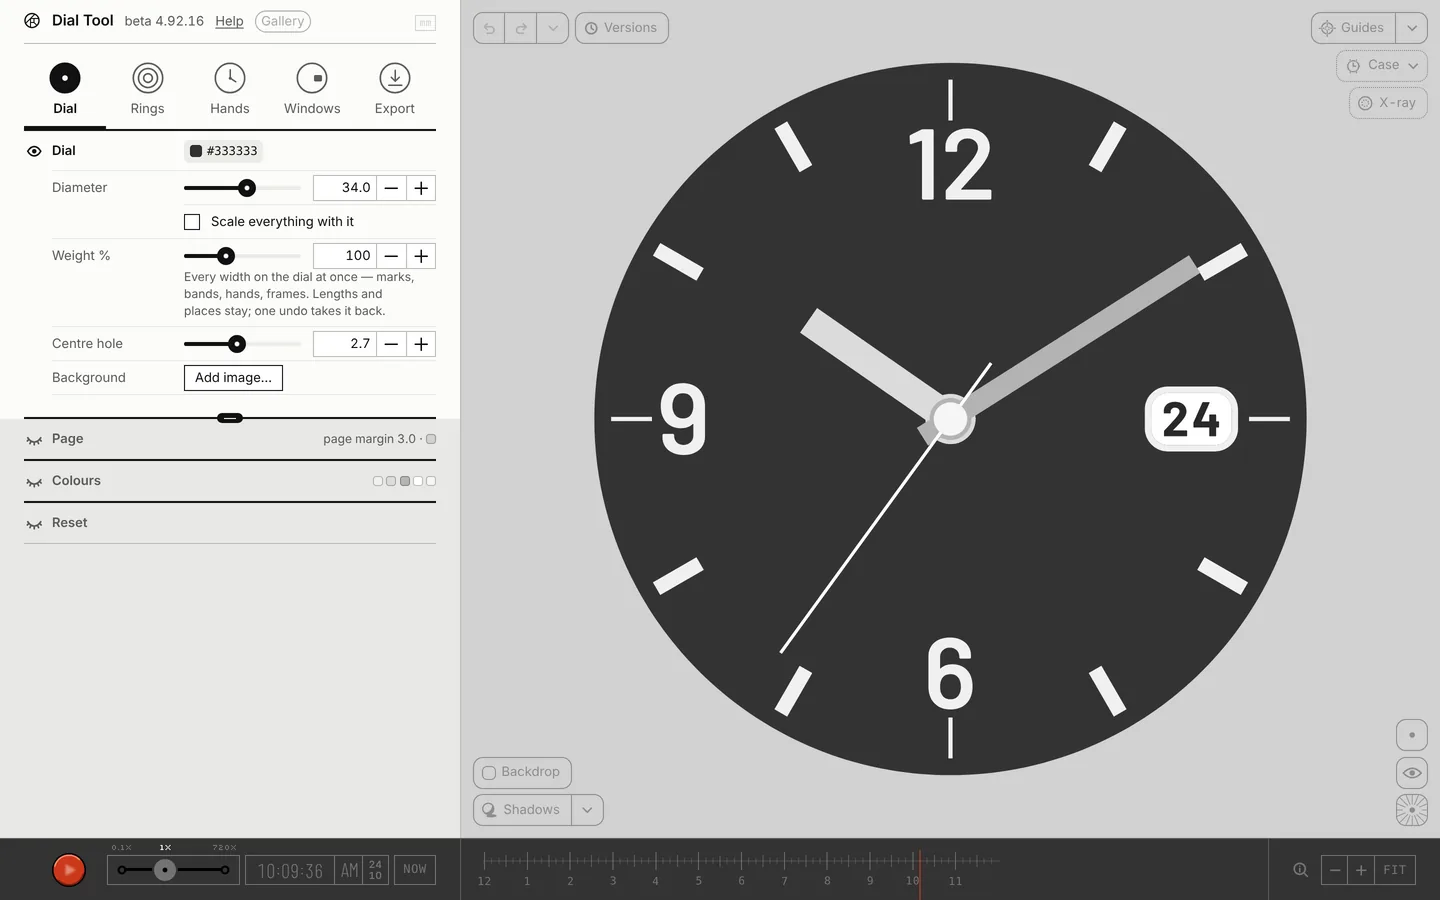
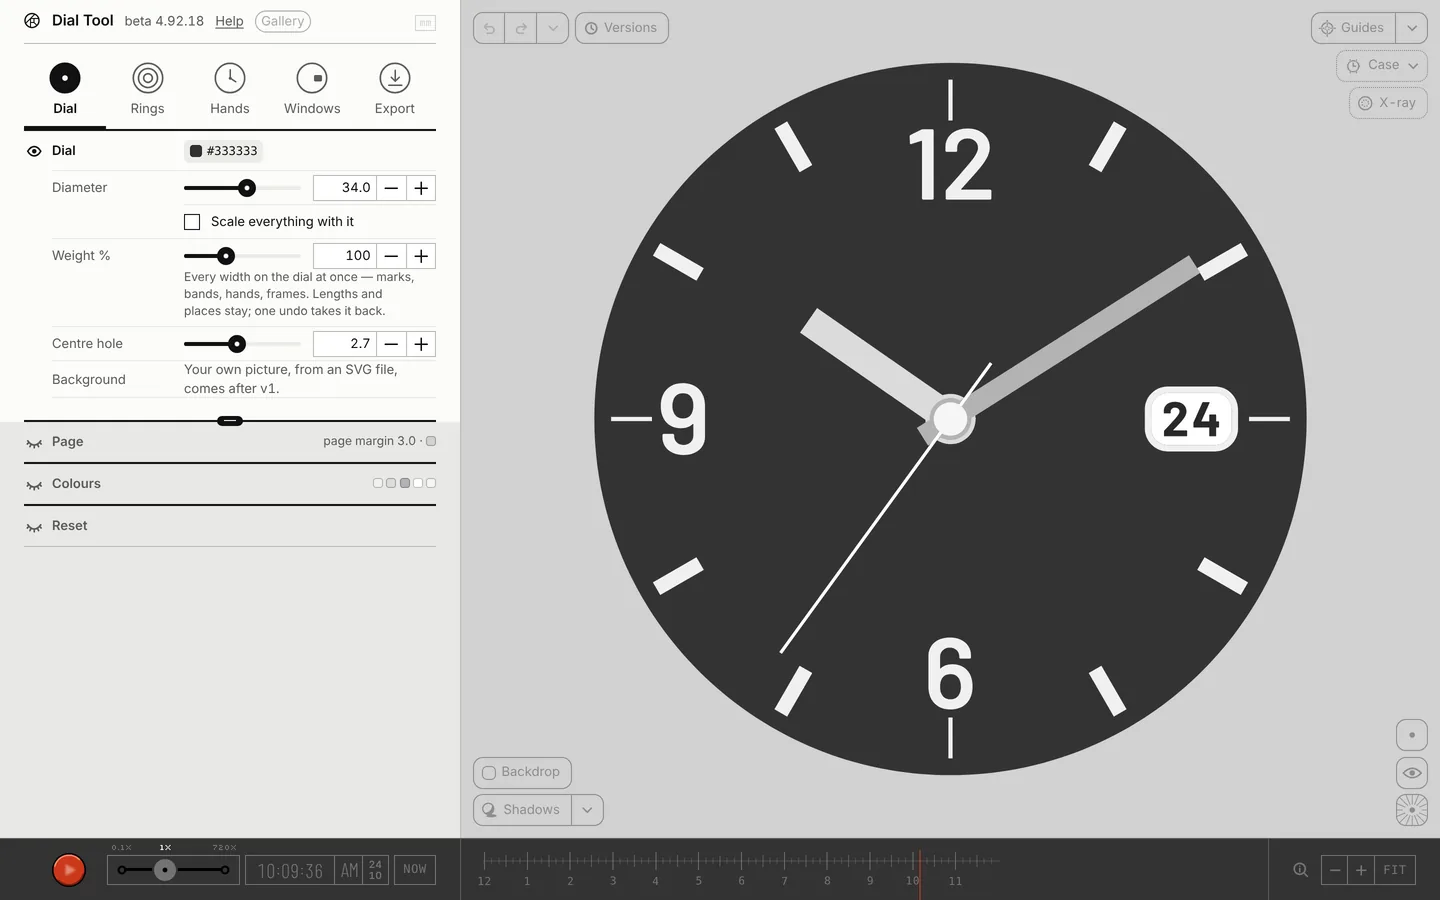
Help page: checked against 4.92.18 (Background note, a numeral's font and colour, the short address, five switches), pictures retaken, top bar clear of Safari's bar, intro on the menu's first line
Claude-Session: https://claude.ai/code/session_01DwX9rUtyQzJBRx6p5MSduf

Changed region(s): [[0.0, 0.4667, 0.3125, 0.5911], [0.125, 0.4044, 0.2812, 0.4667], [0.0312, 0.4044, 0.0938, 0.4356]]

diff --git a/guide/help/index.html b/guide/help/index.html
@@ -2,9 +2,9 @@
 <html lang="en">
 <head>
 <meta charset="utf-8">
-<meta name="viewport" content="width=device-width,initial-scale=1">
+<meta name="viewport" content="width=device-width,initial-scale=1,viewport-fit=cover">
 <meta name="color-scheme" content="light">
-<meta name="checked" content="beta 4.92.11">
+<meta name="checked" content="beta 4.92.18">
 <title>Dial Tool · Help</title>
 <meta name="description" content="Every pane and control of Dial Tool, in one sentence each.">
 <style>
@@ -14,7 +14,7 @@
 :root{--bug:#c8331b;--map-w:211px;--map-h:132px;--map-frame:7px;--map-ring:5px;--paper:#f3f1ec;--ink:#1b1a18;--mute:#77736b;--line:#d8d4cb;--gut:16px}
 *{box-sizing:border-box}html{scroll-padding-top:96px;scroll-behavior:smooth}
 @media (prefers-reduced-motion:reduce){html{scroll-behavior:auto}}
-.topbar{position:sticky;top:0;z-index:10;background:var(--paper);border-bottom:1px solid var(--line)}
+.topbar{position:sticky;top:0;z-index:10;background:var(--paper);border-bottom:1px solid var(--line);padding-top:env(safe-area-inset-top,0px)}
 .top{display:grid;grid-template-columns:190px 1fr;gap:48px;align-items:baseline;max-width:1200px;margin:0 auto;padding:18px var(--gut)}
 .brand{display:flex;align-items:baseline;gap:10px;line-height:1;font-size:26px;font-weight:600;letter-spacing:-.01em;text-decoration:none;white-space:nowrap}
 .brand .ic{margin:0;align-self:center}.brand .ic svg{width:1em;height:1em}
@@ -33,7 +33,7 @@ nav a.on{color:var(--ink);font-weight:600}
 nav .eye{position:absolute;left:4px;width:18px;height:18px;color:var(--mute);opacity:0;transition:opacity .2s}
 nav .grp.on .eye{opacity:1}
 nav b{display:flex;align-items:center;margin:0 0 2px;color:var(--ink);font-weight:600}
-.intro p{margin:.5em 0 0;color:var(--mute);max-width:60ch}
+.intro p{margin:.24em 0 0;color:var(--mute);max-width:60ch}
 h2{clear:both;position:relative;margin:56px 0 4px;font-size:26px;font-weight:600;padding-bottom:8px;border-bottom:1px solid transparent}
 h2::after{content:"";position:absolute;left:0;right:0;bottom:-1px;height:1px;background:var(--ink);z-index:1}
 h3{margin:42px 0 9px;font-size:19px;font-weight:600}
@@ -105,7 +105,7 @@ table.two tbody th{width:9em;font-weight:500}table.two thead th:first-child{widt
 <body>
 <div class="topbar"><header class="top">
   <a class="brand" href="../" title="Open the tool"><i class="ic" data-ic="mark"><svg viewBox="0 0 16 16" width="16" height="16" aria-hidden="true" fill="none" stroke="currentColor" stroke-width="1.5" stroke-linecap="round" stroke-linejoin="round"><circle cx="8" cy="8" r="7" stroke-width="1.375"></circle><path d="M1.62 10.88L10.88 1.62M6.5 6H14.71M6.5 6V14.84M10 6V10H6.5M10 10L12.95 12.95" stroke-width="1"></path></svg></i>Dial Tool</a>
-  <div class="page"><span class="title">Help</span><span class="ver">beta 4.92.11</span><a class="bug" href="#report">Report a bug</a></div>
+  <div class="page"><span class="title">Help</span><span class="ver">beta 4.92.18</span><a class="bug" href="#report">Report a bug</a></div>
 </header></div>
 <div class="wrap">
 <nav aria-label="Contents">
@@ -167,7 +167,7 @@ table.two tbody th{width:9em;font-weight:500}table.two thead th:first-child{widt
   <dt>Scale everything with it</dt><dd>On: rings, hands and windows grow and shrink with the diameter.</dd>
   <dt>Weight %</dt><dd>Every width on the dial at once: marks, bands, hands, frames. Lengths and places stay; one undo takes it back.</dd>
   <dt>Centre hole</dt><dd>The hole for the hand pipes, as Ø; 0 for none.</dd>
-  <dt>Background</dt><dd>Add image… keeps a place for a picture under the print; not built yet.</dd>
+  <dt>Background</dt><dd>A note: your own picture, from an SVG file, comes after v1.</dd>
 </dl>
 <h3>Page · Colours · Reset</h3>
 <dl>
@@ -198,7 +198,7 @@ table.two tbody th{width:9em;font-weight:500}table.two thead th:first-child{widt
   <dt>12 o’clock · first position</dt><dd>A markers ring's first marker: Style, Scale ×, Gap.<span class="row"><span><i class="ic" data-ic="twelve-same"><svg viewBox="0 0 38 27" width="38" height="27" aria-hidden="true" fill="none" stroke="currentColor" stroke-width="1.5" stroke-linecap="round" stroke-linejoin="round"><rect x="16.5" y="4" width="5" height="19" fill="currentColor" stroke="none"></rect></svg></i>Same</span><span><i class="ic" data-ic="twelve-double"><svg viewBox="0 0 38 27" width="38" height="27" aria-hidden="true" fill="none" stroke="currentColor" stroke-width="1.5" stroke-linecap="round" stroke-linejoin="round"><rect x="11.5" y="4" width="5" height="19" fill="currentColor" stroke="none"></rect><rect x="21.5" y="4" width="5" height="19" fill="currentColor" stroke="none"></rect></svg></i>Double</span><span><i class="ic" data-ic="twelve-triangle"><svg viewBox="0 0 38 27" width="38" height="27" aria-hidden="true" fill="none" stroke="currentColor" stroke-width="1.5" stroke-linecap="round" stroke-linejoin="round"><path d="M11 4H27L19 23Z" fill="currentColor" stroke="none"></path></svg></i>Triangle</span><span><i class="ic" data-ic="twelve-none"><svg viewBox="0 0 38 27" width="38" height="27" aria-hidden="true" fill="none" stroke="currentColor" stroke-width="1.5" stroke-linecap="round" stroke-linejoin="round"><circle cx="17" cy="4.5" r="0.625" fill="currentColor" stroke="none"></circle><circle cx="17" cy="22.5" r="0.625" fill="currentColor" stroke="none"></circle><circle cx="19" cy="4.5" r="0.625" fill="currentColor" stroke="none"></circle><circle cx="19" cy="22.5" r="0.625" fill="currentColor" stroke="none"></circle><circle cx="21" cy="4.5" r="0.625" fill="currentColor" stroke="none"></circle><circle cx="21" cy="22.5" r="0.625" fill="currentColor" stroke="none"></circle><circle cx="17" cy="6.5" r="0.625" fill="currentColor" stroke="none"></circle><circle cx="21" cy="6.5" r="0.625" fill="currentColor" stroke="none"></circle><circle cx="17" cy="8.5" r="0.625" fill="currentColor" stroke="none"></circle><circle cx="21" cy="8.5" r="0.625" fill="currentColor" stroke="none"></circle><circle cx="17" cy="10.5" r="0.625" fill="currentColor" stroke="none"></circle><circle cx="21" cy="10.5" r="0.625" fill="currentColor" stroke="none"></circle><circle cx="17" cy="12.5" r="0.625" fill="currentColor" stroke="none"></circle><circle cx="21" cy="12.5" r="0.625" fill="currentColor" stroke="none"></circle><circle cx="17" cy="14.5" r="0.625" fill="currentColor" stroke="none"></circle><circle cx="21" cy="14.5" r="0.625" fill="currentColor" stroke="none"></circle><circle cx="17" cy="16.5" r="0.625" fill="currentColor" stroke="none"></circle><circle cx="21" cy="16.5" r="0.625" fill="currentColor" stroke="none"></circle><circle cx="17" cy="18.5" r="0.625" fill="currentColor" stroke="none"></circle><circle cx="21" cy="18.5" r="0.625" fill="currentColor" stroke="none"></circle><circle cx="17" cy="20.5" r="0.625" fill="currentColor" stroke="none"></circle><circle cx="21" cy="20.5" r="0.625" fill="currentColor" stroke="none"></circle></svg></i>None</span></span></dd>
   <dt>Numerals</dt><dd>Labels on its heading line: Arabic, Roman · IIII, Roman · IV, Eastern Arabic, Chinese, Words, Custom or Numbers (First number, Step, Digits, Start again after); then Placement:<span class="row"><span><i class="ic" data-ic="place-upright"><svg viewBox="0 0 38 27" width="38" height="27" aria-hidden="true" fill="none" stroke="currentColor" stroke-width="1.5" stroke-linecap="round" stroke-linejoin="round"><circle cx="19" cy="13.5" r="11.5" stroke-width="1.25" opacity="0.45"></circle><path d="M19 9L19 5.5M25.495 12.75L25.495 9.25M25.495 20.25L25.495 16.75M19 24L19 20.5M12.505 20.25L12.505 16.75M12.505 12.75L12.505 9.25" stroke-width="1.25"></path><path d="M19 3L20.75 5.75L17.25 5.75ZM25.495 6.75L27.245 9.5L23.745 9.5ZM25.495 14.25L27.245 17L23.745 17ZM19 18L20.75 20.75L17.25 20.75ZM12.505 14.25L14.255 17L10.755 17ZM12.505 6.75L14.255 9.5L10.755 9.5Z" fill="currentColor" stroke="none"></path></svg></i>Upright</span><span><i class="ic" data-ic="place-radial"><svg viewBox="0 0 38 27" width="38" height="27" aria-hidden="true" fill="none" stroke="currentColor" stroke-width="1.5" stroke-linecap="round" stroke-linejoin="round"><circle cx="19" cy="13.5" r="11.5" stroke-width="1.25" opacity="0.45"></circle><path d="M19 9L19 5.5M22.897 11.25L25.928 9.5M22.897 15.75L25.928 17.5M19 18L19 21.5M15.103 15.75L12.072 17.5M15.103 11.25L12.072 9.5" stroke-width="1.25"></path><path d="M19 3L20.75 5.75L17.25 5.75ZM28.093 8.25L26.587 11.141L24.837 8.109ZM28.093 18.75L24.837 18.891L26.587 15.859ZM19 24L17.25 21.25L20.75 21.25ZM9.907 18.75L11.413 15.859L13.163 18.891ZM9.907 8.25L13.163 8.109L11.413 11.141Z" fill="currentColor" stroke="none"></path></svg></i>Radial</span><span><i class="ic" data-ic="place-radial-auto-flip"><svg viewBox="0 0 38 27" width="38" height="27" aria-hidden="true" fill="none" stroke="currentColor" stroke-width="1.5" stroke-linecap="round" stroke-linejoin="round"><circle cx="19" cy="13.5" r="11.5" stroke-width="1.25" opacity="0.45"></circle><path d="M19 9L19 5.5M22.897 11.25L25.928 9.5M28.093 18.75L25.062 17M19 24L19 20.5M9.907 18.75L12.938 17M15.103 11.25L12.072 9.5" stroke-width="1.25"></path><path d="M19 3L20.75 5.75L17.25 5.75ZM28.093 8.25L26.587 11.141L24.837 8.109ZM22.897 15.75L26.154 15.609L24.404 18.641ZM19 18L20.75 20.75L17.25 20.75ZM15.103 15.75L13.596 18.641L11.846 15.609ZM9.907 8.25L13.163 8.109L11.413 11.141Z" fill="currentColor" stroke="none"></path></svg></i>Radial, auto-flip</span><span><i class="ic" data-ic="place-on-path"><svg viewBox="0 0 38 27" width="38" height="27" aria-hidden="true" fill="none" stroke="currentColor" stroke-width="1.5" stroke-linecap="round" stroke-linejoin="round"><circle cx="19" cy="13.5" r="11.5" stroke-width="1.25" opacity="0.45"></circle><path d="M16 6L19.5 6M23.995 7.152L25.745 10.183M26.995 14.652L25.245 17.683M22 21L18.5 21M14.005 19.848L12.255 16.817M11.005 12.348L12.755 9.317" stroke-width="1.25"></path><path d="M22 6L19.25 7.75L19.25 4.25ZM26.995 12.348L24.105 10.842L27.136 9.092ZM23.995 19.848L23.855 16.592L26.886 18.342ZM16 21L18.75 19.25L18.75 22.75ZM11.005 14.652L13.895 16.158L10.864 17.908ZM14.005 7.152L14.145 10.408L11.114 8.658Z" fill="currentColor" stroke="none"></path></svg></i>On path</span></span></dd>
   <dt>Band</dt><dd>Fill % of step: how much of each step the band covers.</dd>
-  <dt>Edit one numeral · Edit one mark</dt><dd>One numeral or mark of its own: Radius ±, Angle ± °, Rotate °, Scale ×; a mark also its Shape.</dd>
+  <dt>Edit one numeral · Edit one mark</dt><dd>One numeral or mark of its own: Radius ±, Angle ± °, Rotate °, Scale ×; a mark also its Shape; a numeral also its Font and Colour (As the ring takes the font back).</dd>
 </dl>
 <p class="watch">Markers and numerals leave a window's position empty; other marks are cut back from the window's clear zone.</p>
 
@@ -252,7 +252,7 @@ table.two tbody th{width:9em;font-weight:500}table.two thead th:first-child{widt
   <dt>Inks · sheets</dt><dd>A mask per ink; a print sheet with Paper, Copies, Room between and a cut line round each; a spec sheet.</dd>
   <dt>A set of files</dt><dd>Tick the files you want; Export ticked writes them all.</dd>
   <dt>Moving picture</dt><dd>The dial running, as MP4 or GIF: Seconds, fps, Size px.</dd>
-  <dt>Share dial as link</dt><dd>Copy link: a link that opens this dial anywhere. It holds only what you changed and may stop opening when the tool changes; to keep a dial, save a settings file.</dd>
+  <dt>Share dial as link</dt><dd>Copy link: a link that opens this dial anywhere; once it opens, the address bar shows the site alone, and a reload keeps the dial. It holds only what you changed and may stop opening when the tool changes; to keep a dial, save a settings file.</dd>
   <dt>Settings file</dt><dd>Save… · Load…: every value, to keep a dial for good.</dd>
   <dt>Log · Gallery</dt><dd>What each export did; dials to open and take apart.</dd>
 </dl>
@@ -279,7 +279,7 @@ table.two tbody th{width:9em;font-weight:500}table.two thead th:first-child{widt
   <dt>Watch</dt><dd>View, Case, Metal, Case colour; Insert and bracelet for the diver; Strap: leather colour, or NATO with Pattern stripes or one colour.</dd>
   <dt>Light</dt><dd>Style and Lighting; Sun From and Height, or move the sun on the drawing; Shadows: Darkness %, Soft shadows; Flare and Glass reflection, each with its sizes, while Effects (blurs, flare, shine, outline) is on.</dd>
   <dt>Backdrop</dt><dd>Plain colours, presets and gradients.</dd>
-  <dt>At the panel's foot</dt><dd>Shadows, Blurs, Flare, Bevels as switches, and All for the four.</dd>
+  <dt>At the panel's foot</dt><dd>Shadows, Blurs, Gradients, Flare, Bevels as switches, and All for the five.</dd>
   <dt>Export</dt><dd>The watch as PNG (Pixels) or PDF at the drawing's real size.</dd>
 </dl>
 
@@ -370,7 +370,7 @@ table.two tbody th{width:9em;font-weight:500}table.two thead th:first-child{widt
   <p id="report-note" role="status"></p>
 </form>
 
-<footer>Dial Tool · beta 4.92.11 · help written 24 Oct 2026 · <a href="../">open the tool</a></footer>
+<footer>Dial Tool · beta 4.92.18 · help written 24 Oct 2026 · <a href="../">open the tool</a></footer>
 </main>
 </div>
 <div class="box" id="box" role="dialog" aria-label="Where on the screen"><figure><img alt=""><figcaption></figcaption></figure></div>

diff --git a/docs/decisions.md b/docs/decisions.md
@@ -427,3 +427,4 @@ The dated record of every decision, with Okay's words as the reason. Not read be
 | 24 Oct, 20:36 | **SVG import after v1 (group G); for v1 three places made ready with a note: the moon window's picture, the am·pm window, the dial. A set of Versions as one link in v1 if it fits (#523). The short address (#537) moved up: next, v1.** | Okay: "Importing svg later. spaces set. Moon, ampm, dial only. Versions if could be included nice. Hidden link i told you about? Move that up on the list." |
 | 24 Oct, 20:45 | **The short address (#537): the address bar shows only the site once a link has opened its dial; Copy link is the one way to share a dial; bookmarks and the share sheet give the bare site. Tonight: the small batch (#537, #530, #218). No icon drawings tonight (#162).** | Okay (question mode): "Small batch"; "OK, Copy link only"; "We removed strap, take care of some cases. Maybe few for tomorrow. None tonight." |
 | 24 Oct, 21:05 | **A ring's starting font: Arimo, bundled, in place of Helvetica Neue (#228); link scheme 5 (R31: old links that left the font out would draw something else).** | Okay: "Helvetica not a bundled font. Bundled fonts are all free to use. Proceed" |
+| 24 Oct, 21:15 | **Help page checked against 4.92.18 and closed for the night**: Background's note, a numeral's own font and colour, the short address, five switches in show mode; pictures retaken; the top bar keeps clear of Safari's own bar on the iPad (viewport-fit=cover, the safe area above its words) — to be confirmed on his iPad. | Okay: "Top slides up on scroll, shouldn't. Top is still at all times. … A sanity check. All in line? Done then for tonight." |
